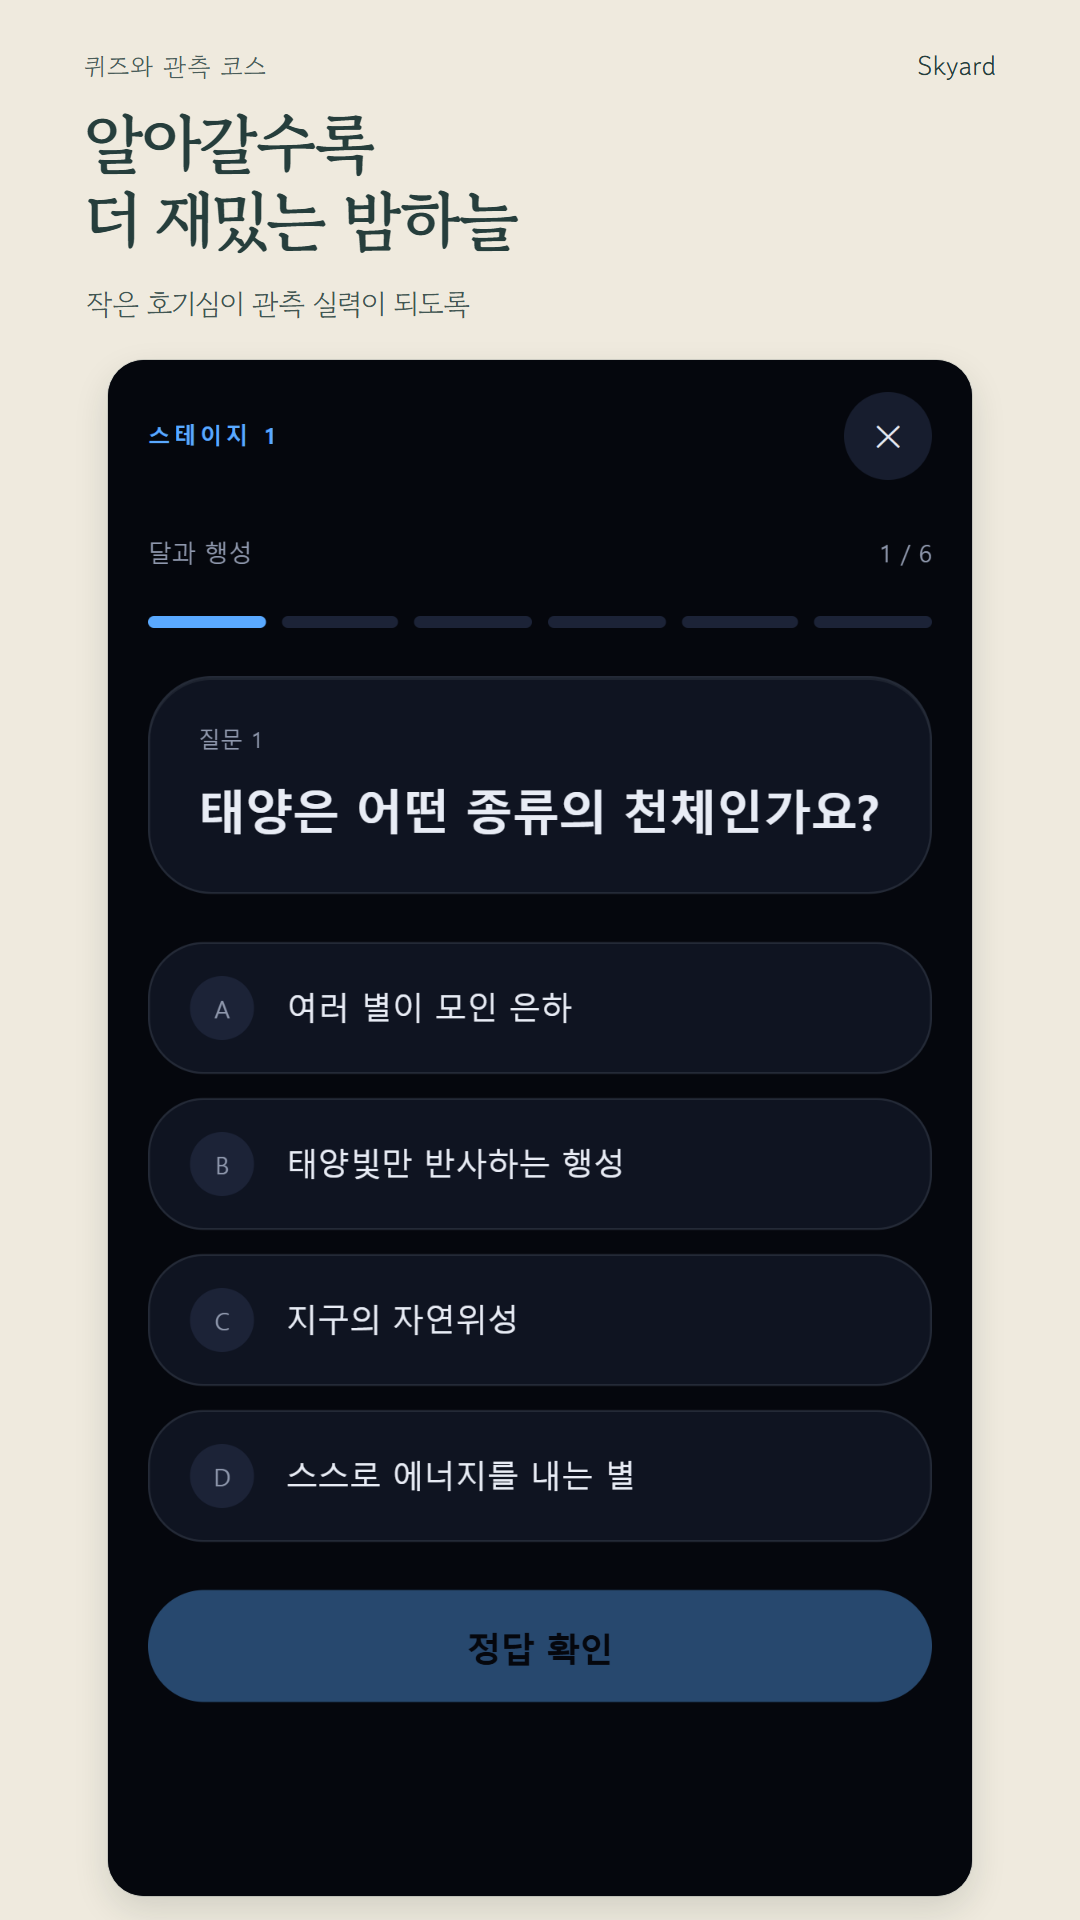
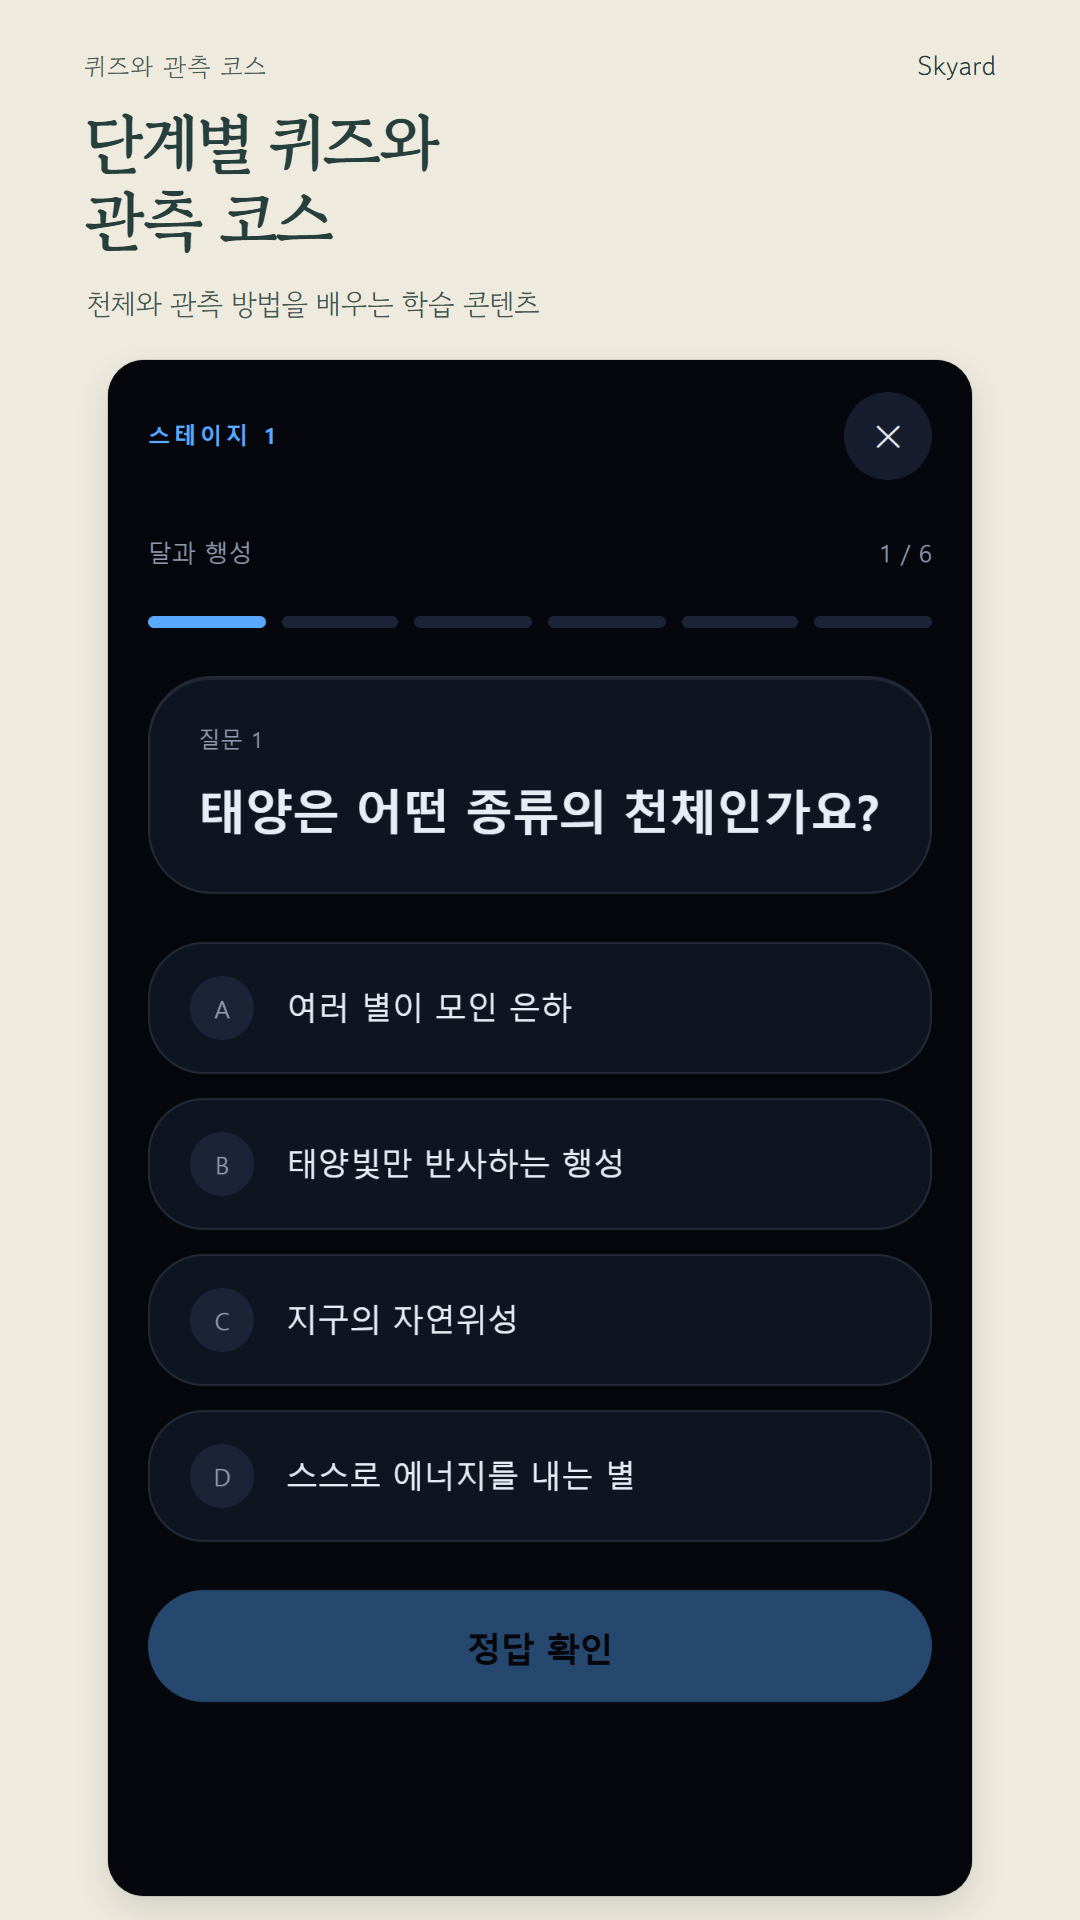
docs: simplify store graphic headlines

Changed region(s): [[0.0611, 0.0625, 0.4889, 0.1875], [0.3667, 0.1562, 0.4278, 0.1875]]

diff --git a/docs/store-assets/launch-20260910/design-source.html b/docs/store-assets/launch-20260910/design-source.html
@@ -19,13 +19,12 @@ h1{position:absolute;top:104px;left:84px;right:72px;margin:0;font:700 65px/1.18 
 .feature .brand img{width:38px;height:38px;border-radius:10px}
 .feature h1{top:135px;left:64px;font-size:56px;line-height:1.27;letter-spacing:-.04em}
 .feature .sub{top:324px;left:68px;font-size:21px;letter-spacing:-.035em;line-height:1.7;white-space:pre-line}
-body{display:flex;flex-wrap:wrap;gap:40px;padding:40px;background:#bbb8ae}</style><section class="feature" id="feature"><img class="sky" src="feature-sky-source.png" alt="앱에서 렌더링한 밤하늘"><div class="shade"></div><div class="brand"><img src="play-icon-512.png" alt="">스카이야드 Skyard</div><h1>오늘 밤,
-별 보러 가요</h1><p class="sub">오늘의 하늘부터
-나만의 관측 기록까지</p></section><section class="card night" id="01-sky"><div class="topline"><span class="eyebrow">하늘 지도</span><span class="brand">Skyard</span></div><h1>저 별,
-이름이 뭘까</h1><p class="sub">휴대폰 방향을 따라 살펴보는 밤하늘</p><div class="screen"><img src="raw-phone/01-sky.png" alt="하늘 지도 실제 앱 화면"></div></section><section class="card cream" id="02-tonight"><div class="topline"><span class="eyebrow">오늘 밤 추천</span><span class="brand">Skyard</span></div><h1>오늘은
-어떤 별을 볼까</h1><p class="sub">관측하기 좋은 천체를 한눈에</p><div class="screen"><img src="raw-phone/02-tonight.png" alt="오늘 밤 추천 실제 앱 화면"></div></section><section class="card night" id="03-photos"><div class="topline"><span class="eyebrow">천체 사진</span><span class="brand">Skyard</span></div><h1>작은 빛 너머,
-이런 모습이 있었네</h1><p class="sub">164개 천체의 실제 참고 사진</p><div class="screen"><img src="raw-phone/03-photo.png" alt="천체 사진 실제 앱 화면"></div></section><section class="card cream" id="04-starhop"><div class="topline"><span class="eyebrow">망원경 관측 · 스타호핑</span><span class="brand">Skyard</span></div><h1>별에서 별로,
-망원경과 한 걸음씩</h1><p class="sub">장비 시야 6.0° 기준 · 차트는 주변까지</p><div class="screen"><img src="raw-phone/07d-starhop-chart.png" alt="망원경 관측 · 스타호핑 실제 앱 화면"></div></section><section class="card night" id="05-log"><div class="topline"><span class="eyebrow">관측 기록</span><span class="brand">Skyard</span></div><h1>그날의 하늘을
-내 기록으로</h1><p class="sub">메모와 사진, 스케치로 남기는 관측 노트</p><div class="screen"><img src="raw-phone/04-log.png" alt="관측 기록 실제 앱 화면"></div></section><section class="card cream" id="06-quiz"><div class="topline"><span class="eyebrow">퀴즈와 관측 코스</span><span class="brand">Skyard</span></div><h1>알아갈수록
-더 재밌는 밤하늘</h1><p class="sub">작은 호기심이 관측 실력이 되도록</p><div class="screen"><img src="raw-phone/05b-quiz.png" alt="퀴즈와 관측 코스 실제 앱 화면"></div></section><section class="card green" id="07-garden"><div class="topline"><span class="eyebrow">아바타와 내 마당</span><span class="brand">Skyard</span></div><h1>별 보고 돌아와,
-내 마당에서 쉬어요</h1><p class="sub">관측과 학습으로 모으는 꾸미기 보상</p><div class="screen"><img src="raw-phone/06-garden.png" alt="아바타와 내 마당 실제 앱 화면"></div></section></html>
+body{display:flex;flex-wrap:wrap;gap:40px;padding:40px;background:#bbb8ae}</style><section class="feature" id="feature"><img class="sky" src="feature-sky-source.png" alt="앱에서 렌더링한 밤하늘"><div class="shade"></div><div class="brand"><img src="play-icon-512.png" alt="">스카이야드 Skyard</div><h1>하늘 지도와
+천체 관측 가이드</h1><p class="sub">별자리 찾기 · 스타호핑 · 관측 기록</p></section><section class="card night" id="01-sky"><div class="topline"><span class="eyebrow">하늘 지도</span><span class="brand">Skyard</span></div><h1>별과 별자리를
+확인하는 하늘 지도</h1><p class="sub">휴대폰 방향을 따라 살펴보는 밤하늘</p><div class="screen"><img src="raw-phone/01-sky.png" alt="하늘 지도 실제 앱 화면"></div></section><section class="card cream" id="02-tonight"><div class="topline"><span class="eyebrow">오늘 밤 추천</span><span class="brand">Skyard</span></div><h1>오늘 밤의
+관측 대상 추천</h1><p class="sub">관측하기 좋은 천체를 한눈에</p><div class="screen"><img src="raw-phone/02-tonight.png" alt="오늘 밤 추천 실제 앱 화면"></div></section><section class="card night" id="03-photos"><div class="topline"><span class="eyebrow">천체 사진</span><span class="brand">Skyard</span></div><h1>164개 천체의
+사진과 설명</h1><p class="sub">행성, 성운, 성단, 은하의 실제 참고 사진</p><div class="screen"><img src="raw-phone/03-photo.png" alt="천체 사진 실제 앱 화면"></div></section><section class="card cream" id="04-starhop"><div class="topline"><span class="eyebrow">망원경 관측 · 스타호핑</span><span class="brand">Skyard</span></div><h1>망원경 관측을 위한
+스타호핑 가이드</h1><p class="sub">장비 시야 6.0° 기준 · 차트는 주변까지</p><div class="screen"><img src="raw-phone/07d-starhop-chart.png" alt="망원경 관측 · 스타호핑 실제 앱 화면"></div></section><section class="card night" id="05-log"><div class="topline"><span class="eyebrow">관측 기록</span><span class="brand">Skyard</span></div><h1>사진과 메모로
+남기는 관측 기록</h1><p class="sub">메모와 사진, 스케치로 남기는 관측 노트</p><div class="screen"><img src="raw-phone/04-log.png" alt="관측 기록 실제 앱 화면"></div></section><section class="card cream" id="06-quiz"><div class="topline"><span class="eyebrow">퀴즈와 관측 코스</span><span class="brand">Skyard</span></div><h1>단계별 퀴즈와
+관측 코스</h1><p class="sub">천체와 관측 방법을 배우는 학습 콘텐츠</p><div class="screen"><img src="raw-phone/05b-quiz.png" alt="퀴즈와 관측 코스 실제 앱 화면"></div></section><section class="card green" id="07-garden"><div class="topline"><span class="eyebrow">아바타와 내 마당</span><span class="brand">Skyard</span></div><h1>아바타와
+내 마당 꾸미기</h1><p class="sub">관측과 학습으로 모으는 꾸미기 보상</p><div class="screen"><img src="raw-phone/06-garden.png" alt="아바타와 내 마당 실제 앱 화면"></div></section></html>

diff --git a/docs/store-assets/launch-20260910/preview.html b/docs/store-assets/launch-20260910/preview.html
@@ -2,4 +2,4 @@
 @font-face{font-family:GowunDodum;src:url('fonts/GowunDodum-Regular.ttf') format('truetype');font-weight:400;font-display:block}
 @font-face{font-family:GowunBatang;src:url('fonts/GowunBatang-Bold.ttf') format('truetype');font-weight:700;font-display:block}
 *{box-sizing:border-box}html,body{margin:0}body{font-family:GowunDodum,sans-serif;-webkit-font-smoothing:antialiased}
-body{background:#dedbd2;color:#263e3c;padding:32px}header{max-width:1100px;margin:0 auto 32px}header h2{font:700 32px GowunBatang;margin:12px 0}header p{font-size:17px;line-height:1.7}.banner{width:768px;max-width:100%;border-radius:8px;display:block}.row{display:grid;grid-template-columns:repeat(4,270px);gap:18px;max-width:1134px;margin:auto}.row img{width:270px;border-radius:8px}.row p{margin:6px 0 18px;font-size:16px}.row a{color:inherit;text-decoration:none}footer{max-width:1134px;margin:24px auto;font-size:14px;line-height:1.7}</style><header><h2>별 보러 가는 밤, 스카이야드</h2><p>실제 앱 화면 · 고운바탕과 고운돋움 · 한국어 등록 이미지</p><img class="banner" src="feature-ko-1024x500.png" alt="스카이야드 피처 그래픽"></header><div class="row"><a href="phone/01-sky.png"><img src="phone/01-sky.png" alt="하늘 지도"><p>1. 하늘 지도</p></a><a href="phone/02-tonight.png"><img src="phone/02-tonight.png" alt="오늘 밤 추천"><p>2. 오늘 밤 추천</p></a><a href="phone/03-photos.png"><img src="phone/03-photos.png" alt="천체 사진"><p>3. 천체 사진</p></a><a href="phone/04-starhop.png"><img src="phone/04-starhop.png" alt="망원경 관측 · 스타호핑"><p>4. 망원경 관측 · 스타호핑</p></a><a href="phone/05-log.png"><img src="phone/05-log.png" alt="관측 기록"><p>5. 관측 기록</p></a><a href="phone/06-quiz.png"><img src="phone/06-quiz.png" alt="퀴즈와 관측 코스"><p>6. 퀴즈와 관측 코스</p></a><a href="phone/07-garden.png"><img src="phone/07-garden.png" alt="아바타와 내 마당"><p>7. 아바타와 내 마당</p></a></div><footer>앱 beta.12/build17의 브라우저 화면을 촬영했습니다. 기록은 ‘샘플 기록’으로 표시한 예시입니다. 태블릿 이미지는 별도 폴더에 있습니다.<br>현재 빌드에 결제가 없어 유료 문구는 넣지 않았습니다. 향후 유료 기능을 적용할 때 안내를 추가합니다.</footer></html>
+body{background:#dedbd2;color:#263e3c;padding:32px}header{max-width:1100px;margin:0 auto 32px}header h2{font:700 32px GowunBatang;margin:12px 0}header p{font-size:17px;line-height:1.7}.banner{width:768px;max-width:100%;border-radius:8px;display:block}.row{display:grid;grid-template-columns:repeat(4,270px);gap:18px;max-width:1134px;margin:auto}.row img{width:270px;border-radius:8px}.row p{margin:6px 0 18px;font-size:16px}.row a{color:inherit;text-decoration:none}footer{max-width:1134px;margin:24px auto;font-size:14px;line-height:1.7}</style><header><h2>스카이야드 · 주요 기능</h2><p>실제 앱 화면 · 고운바탕과 고운돋움 · 한국어 등록 이미지</p><img class="banner" src="feature-ko-1024x500.png" alt="스카이야드 피처 그래픽"></header><div class="row"><a href="phone/01-sky.png"><img src="phone/01-sky.png" alt="하늘 지도"><p>1. 하늘 지도</p></a><a href="phone/02-tonight.png"><img src="phone/02-tonight.png" alt="오늘 밤 추천"><p>2. 오늘 밤 추천</p></a><a href="phone/03-photos.png"><img src="phone/03-photos.png" alt="천체 사진"><p>3. 천체 사진</p></a><a href="phone/04-starhop.png"><img src="phone/04-starhop.png" alt="망원경 관측 · 스타호핑"><p>4. 망원경 관측 · 스타호핑</p></a><a href="phone/05-log.png"><img src="phone/05-log.png" alt="관측 기록"><p>5. 관측 기록</p></a><a href="phone/06-quiz.png"><img src="phone/06-quiz.png" alt="퀴즈와 관측 코스"><p>6. 퀴즈와 관측 코스</p></a><a href="phone/07-garden.png"><img src="phone/07-garden.png" alt="아바타와 내 마당"><p>7. 아바타와 내 마당</p></a></div><footer>앱 beta.12/build17의 브라우저 화면을 촬영했습니다. 기록은 ‘샘플 기록’으로 표시한 예시입니다. 태블릿 이미지는 별도 폴더에 있습니다.<br>현재 빌드에 결제가 없어 유료 문구는 넣지 않았습니다. 향후 유료 기능을 적용할 때 안내를 추가합니다.</footer></html>

diff --git a/plan/STATUS.md b/plan/STATUS.md
@@ -12,7 +12,7 @@
 
 ## 이번 작업 보고 (2026-09-10 · 스카이야드 beta.12/build17)
 
-- **스토어 문안·이미지**: 사용자 요청에 맞춰 간단한 설명35자·상세965자, 망원경 숙련자용 스타호핑 소개, 고운바탕/고운돋움 홍보 이미지와 실제 build17 UI를 묶었다(D-063). `docs/store-assets/launch-20260910/README.md`에 입력란별 값·업로드 순서·대체 텍스트·유료 안내 조건을 정리했다. 앱 아이콘512·피처1024×500·휴대전화1080×1920 7장·7인치/10인치1920×1080 각4장을 준비했다. Play용 아이콘은 기존 도안의 배경을 정사각형으로 내보냈다. 캡처는 격리 브라우저이며 물리 기기 촬영과 구분한다. 공개 대전 예시·표시된 샘플 기록만 사용하고 사진 출처와 OFL을 보존했다. 폰/태블릿/스타호핑 캡처의 콘솔·페이지 오류0·가로 넘침0, 최종 이미지 시각 QA와 용량·형식·문자수 검증을 실시했다. 파일 수정 범위는 문안·이미지·재현 스크립트이며 앱 코드/AAB/APK를 변경하지 않았다. 현재 결제가 없어 유료 표시는 제외했고 실제 상품 적용 때만 짧게 안내한다. Downloads/Skyard-GooglePlay-20260910.zip(5,423,451bytes)에 입력용 TXT·PNG·안내·출처를 묶고 ZIP 내부 각 파일의 SHA를 원본과 대조했다. 새 스크립트4개의 ESLint·구문·Prettier 검사도 통과했다. Console 저장/제출은 하지 않았다.
+- **스토어 문안·이미지**: 사용자 요청에 맞춰 간단한 설명35자·상세965자, 망원경 숙련자용 스타호핑 소개, 고운바탕/고운돋움 홍보 이미지와 실제 build17 UI를 묶었다(D-063). `docs/store-assets/launch-20260910/README.md`에 입력란별 값·업로드 순서·대체 텍스트·유료 안내 조건을 정리했다. 앱 아이콘512·피처1024×500·휴대전화1080×1920 7장·7인치/10인치1920×1080 각4장을 준비했다. Play용 아이콘은 기존 도안의 배경을 정사각형으로 내보냈다. 캡처는 격리 브라우저이며 물리 기기 촬영과 구분한다. 공개 대전 예시·표시된 샘플 기록만 사용하고 사진 출처와 OFL을 보존했다. 폰/태블릿/스타호핑 캡처의 콘솔·페이지 오류0·가로 넘침0, 최종 이미지 시각 QA와 용량·형식·문자수 검증을 실시했다. 파일 수정 범위는 문안·이미지·재현 스크립트이며 앱 코드/AAB/APK를 변경하지 않았다. 현재 결제가 없어 유료 표시는 제외했고 실제 상품 적용 때만 짧게 안내한다. Downloads/Skyard-GooglePlay-20260910-v2.zip(5,441,502bytes)에 입력용 TXT·PNG·안내·출처를 묶고 ZIP 내부 각 파일의 SHA를 원본과 대조했다. 새 스크립트4개의 ESLint·구문·Prettier 검사도 통과했다. 후속 요청에 따라 대표 문구를 “하늘 지도와 천체 관측 가이드”로, 휴대전화7장의 큰 제목과 학습 부제를 담백한 기능 소개로 수정했다. v2 이미지의 글자 잘림·17개 업로드 파일 규격·ZIP30파일 SHA를 확인했다. Console 저장/제출은 하지 않았다.
 
 - **Play 데이터 삭제 URL 보완**: `delete-account.html#delete-data`에 계정을 유지한 공유 사진·개인 백업 삭제의 실제 UI 경로, 웹/이메일 요청, 삭제·유지 범위를 한영으로 추가했다(D-062). 사용자는 광고를 넣지 않기로 확정했다. 소스 `03db83e533417f1341aa9f64c068ddb5662c150e`, [Pages 34438892203](https://github.com/JunhyoungPark-NOBEL/skylog/actions/runs/34438892203) 전체 성공. 공개 HTTP200·로컬 HTML 완전 일치·부분 삭제 앵커·390px 화면/이메일 링크를 확인했다(`artifacts/qa-data-deletion/`). 정적 안내 변경이며 build17 AAB/APK는 재생성하지 않았다. 실제 삭제/메일 처리는 실행하지 않았다. 서버 로그/검토 이력 보관 기간은 기존 미확정 사항으로 남기고 임의 기간을 약속하지 않는다.
 - **구현**: 확정 이름 ‘스카이야드 Skyard - 천체 관측 가이드’를 웹/PWA·한영 UI·Android/iOS 표시·스토어 그래픽에 반영했다. 앱ID·로그인URI·DB/백업 식별자를 유지한다. 사용자 제공 지원 이메일/운영자와 웹 계정·비로그인 이메일 삭제 안내를 공개 정책에 반영했다. 현행 선택계정/UGC/백업에 맞춰 Apple privacy manifest를 계정 연결7종으로 보완했다(D-060).

diff --git a/plan/DECISIONS.md b/plan/DECISIONS.md
@@ -431,3 +431,6 @@ D-060/D-061 최종 검증: 소스 830c974bebeab0e873925ba58b0bd8a01798de6e·beta
 현재 beta.12/build17의 기능을 기준으로 스카이야드 한국어 소개를 정리한다. 간단한 설명은 별자리 찾기부터 망원경 스타호핑까지 관측의 폭을 보여 주고, 상세 설명에는 숙련된 망원경 관측자를 위한 기준별·이동 각도·장비 시야·6개 코스를 넣는다. 자동 카메라 식별·모터 제어·전문 장비 정밀도를 약속하지 않는다. 카테고리는 교육, 태그는 과학 교육을 우선하고 날씨를 보조로 권한다. 실제 결제 기능이 없는 현재 버전에 유료 문구를 넣지 않으며 상품/구매/복원과 대상 기능이 적용될 때만 “일부 퀴즈와 망원경 코스는 별도 구매가 필요해요.”를 짧게 추가한다. 가격과 이용 기간은 확정하지 않는다.
 
 휴대전화7장과 태블릿8장은 실제 native 정적 번들을 격리 브라우저에서 실행해 촬영한다. 실제 휴대전화/태블릿 촬영이나 센서 실기기 검증으로 표현하지 않는다. 기록 화면은 명시된 샘플만 쓰고 기본 아바타 선택 외에 진도나 보상을 채우지 않는다. 휴대전화에는 상단19% 이내 소개 문구를 배치하고 태블릿에는 추가 홍보 문구를 넣지 않는다. 스타호핑 차트10.8°와 이동량의 기준인 장비 시야6.0°를 구분해 적는다. 제목은 OFL 고운바탕, 부제는 OFL 고운돋움, 사진 출처와 원본 manifest는 보존한다. 기존 아이콘은 도안을 유지하며 Play의 모서리 마스크에 맞춰 제출용 배경만 정사각형으로 내보낸다. 업로드 PNG·TXT·설명서를 제공하며 앱 빌드나 Console 제출을 수행한 것으로 표시하지 않는다.
+
+
+D-063 문구 수정: 사용자는 큰 제목의 감성적인 표현보다 담백한 기능 소개를 선호한다. 대표 문구는 “하늘 지도와 천체 관측 가이드”, 휴대전화7장은 하늘 지도·오늘 밤 추천·천체 사진·스타호핑·기록·학습·꾸미기를 직접 설명하는 제목으로 바꾼다. 퀴즈 부제도 기능 중심으로 정리하며 기존 글꼴·실제 UI·사진 출처·유료 안내 조건은 유지한다. 수정본은 v2 ZIP으로 구분한다.
